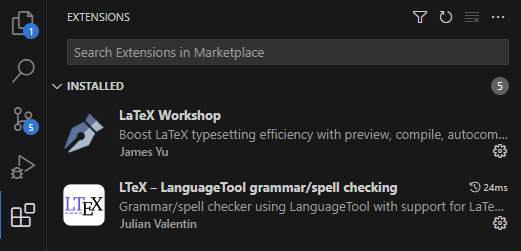
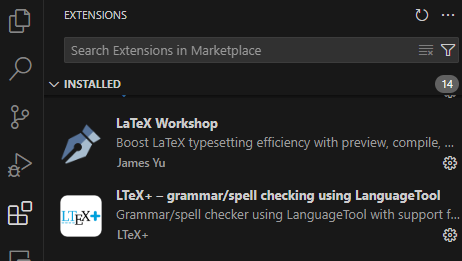
Updates latex installer with forked repo

diff --git a/_posts/2023-10-22-getting-latex-working-in-vscode-on-windows.md b/_posts/2023-10-22-getting-latex-working-in-vscode-on-windows.md
@@ -2,9 +2,10 @@
 title: How to install LaTeX (with previews & autocomplete) for VSCode on Windows
 image: /assets/images/2023/latex-banner.png
 tags:
-    - VSCode
-    - LaTeX
-    - Windows
+  - VSCode
+  - LaTeX
+  - Windows
+last_modified_at: 2024-11-21
 ---
 
 I recently decided to learn the basics of [LaTeX](https://www.latex-project.org/about/), a way of preparing documents primarily used in STEM academia. I also decided to use VSCode, as I do for almost all other work. This was not as easy as I expected, so here's a complete beginner's guide to getting LaTeX working in Visual Studio Code on Windows!
@@ -59,7 +60,7 @@ Click "Change" next to "full scheme (everything)", and this dialog will pop up:
 
 [![](/assets/images/2023/latex-install5.png)](/assets/images/2023/latex-install5.png)
 
-Change the scheme to "basic scheme", then click "Install". This scheme is more reasonable, around 430MB, and will take a couple of minutes to install on an SSD. 
+Change the scheme to "basic scheme", then click "Install". This scheme is more reasonable, around 430MB, and will take a couple of minutes to install on an SSD.
 
 Here's how it'll look when finished:
 
@@ -89,13 +90,15 @@ This bit is much more straightforward, thankfully.
 
 Search for "LaTeX Workshop" and "LTeX - LanguageTool" in VSCode's extensions tab, and click to install both. Only the first is required, but the second will give very useful grammar and spellchecking capabilities.
 
+Make sure you install the LanguageTool extension by "LTeX+", as the one by "Julian Valentin" [is not maintained](https://github.com/valentjn/vscode-ltex/issues/884#issuecomment-2481694378) and has been forked.
+
 [![](/assets/images/2023/latex-install9.png)](/assets/images/2023/latex-install9.png)
 
 VSCode will probably ask you to "Reload", if not then close and reopen it yourself.
 
 ## Testing your installation
 
-Okay, you're good to go! 
+Okay, you're good to go!
 
 To test this, create a new `.tex` file in VSCode. Add some basic LaTeX code, such as:
 
@@ -110,11 +113,11 @@ When you save this document, you should notice 4 things:
 
 ### 1: New LaTeX buttons
 
-The top right of your file should have buttons to build your LaTeX project and preview it. 
+The top right of your file should have buttons to build your LaTeX project and preview it.
 
 [![](/assets/images/2023/latex-installed1.png)](/assets/images/2023/latex-installed1.png)
 
-Clicking the preview icon will hopefully... preview your file! 
+Clicking the preview icon will hopefully... preview your file!
 
 [![](/assets/images/2023/latex-installed2.png)](/assets/images/2023/latex-installed2.png)
 
@@ -130,7 +133,7 @@ It's worth pointing out that this is also where any issues will surface themselv
 
 ### 3: Lots of new files
 
-Your single `.tex` file now has 6 new friends! 
+Your single `.tex` file now has 6 new friends!
 
 [![](/assets/images/2023/latex-installed3.png)](/assets/images/2023/latex-installed3.png)
 
@@ -162,9 +165,10 @@ I'm going to be using [this tutorial](https://www.overleaf.com/learn/latex/Learn
 
 This was far more complicated than it needed to be. I admittedly made it harder on myself by not just accepting the 1 hour 8GB install, but even then there were so many small areas of friction!
 
-The [LaTeX Project](https://www.latex-project.org/) does do a good job from the documentation side, providing a high level overview without unnecessary technical detail. However, as soon as you click "Get", and are met by multiple ways of getting multiple distributions for multiple OS... it falls apart. 
+The [LaTeX Project](https://www.latex-project.org/) does do a good job from the documentation side, providing a high level overview without unnecessary technical detail. However, as soon as you click "Get", and are met by multiple ways of getting multiple distributions for multiple OS... it falls apart.
 
 The very first section starts off extremely promising, drawing complete newcomers in with this wording:
+
 > If you're new to TeX and LaTeX or just want an easy installation, get a full TeX distribution. The TeX Users Group (TUG) has a list of notable distributions that are entirely, or least primarily, free software.
 
 Unfortunately, the link takes me to `tug.org`, which is actually timing out for me currently. Once it came back up, the result is not very intuitive. Is one of these better? Is one of them awful? No idea. Whilst I know from elsewhere that the top option is 100% what I want, I could easily have picked an incorrect option!
@@ -181,13 +185,8 @@ Regardless, now it's all setup, I'm looking forward to doing more than writing "
 
 ## Useful links
 
-* [LaTeX Project homepage](https://www.latex-project.org/about/)
-* LaTeX Workshop [GitHub](https://github.com/James-Yu/LaTeX-Workshop/) & [VS Marketplace](https://marketplace.visualstudio.com/items?itemName=James-Yu.latex-workshop)
-* LTeX Language Tool [GitHub](https://github.com/valentjn/vscode-ltex) & [VS Marketplace](https://marketplace.visualstudio.com/items?itemName=valentjn.vscode-ltex)
-* [Beginner-friendly LaTeX Tutorial](https://www.overleaf.com/learn/latex/Learn_LaTeX_in_30_minutes)
-* [TeX Live](https://tug.org/texlive/)
-
-
-
-
-
+- [LaTeX Project homepage](https://www.latex-project.org/about/)
+- LaTeX Workshop [GitHub](https://github.com/James-Yu/LaTeX-Workshop/) & [VS Marketplace](https://marketplace.visualstudio.com/items?itemName=James-Yu.latex-workshop)
+- LTeX Language Tool [GitHub](https://github.com/ltex-plus/vscode-ltex-plus) & [VS Marketplace](https://marketplace.visualstudio.com/items?itemName=ltex-plus.vscode-ltex-plus)
+- [Beginner-friendly LaTeX Tutorial](https://www.overleaf.com/learn/latex/Learn_LaTeX_in_30_minutes)
+- [TeX Live](https://tug.org/texlive/)
